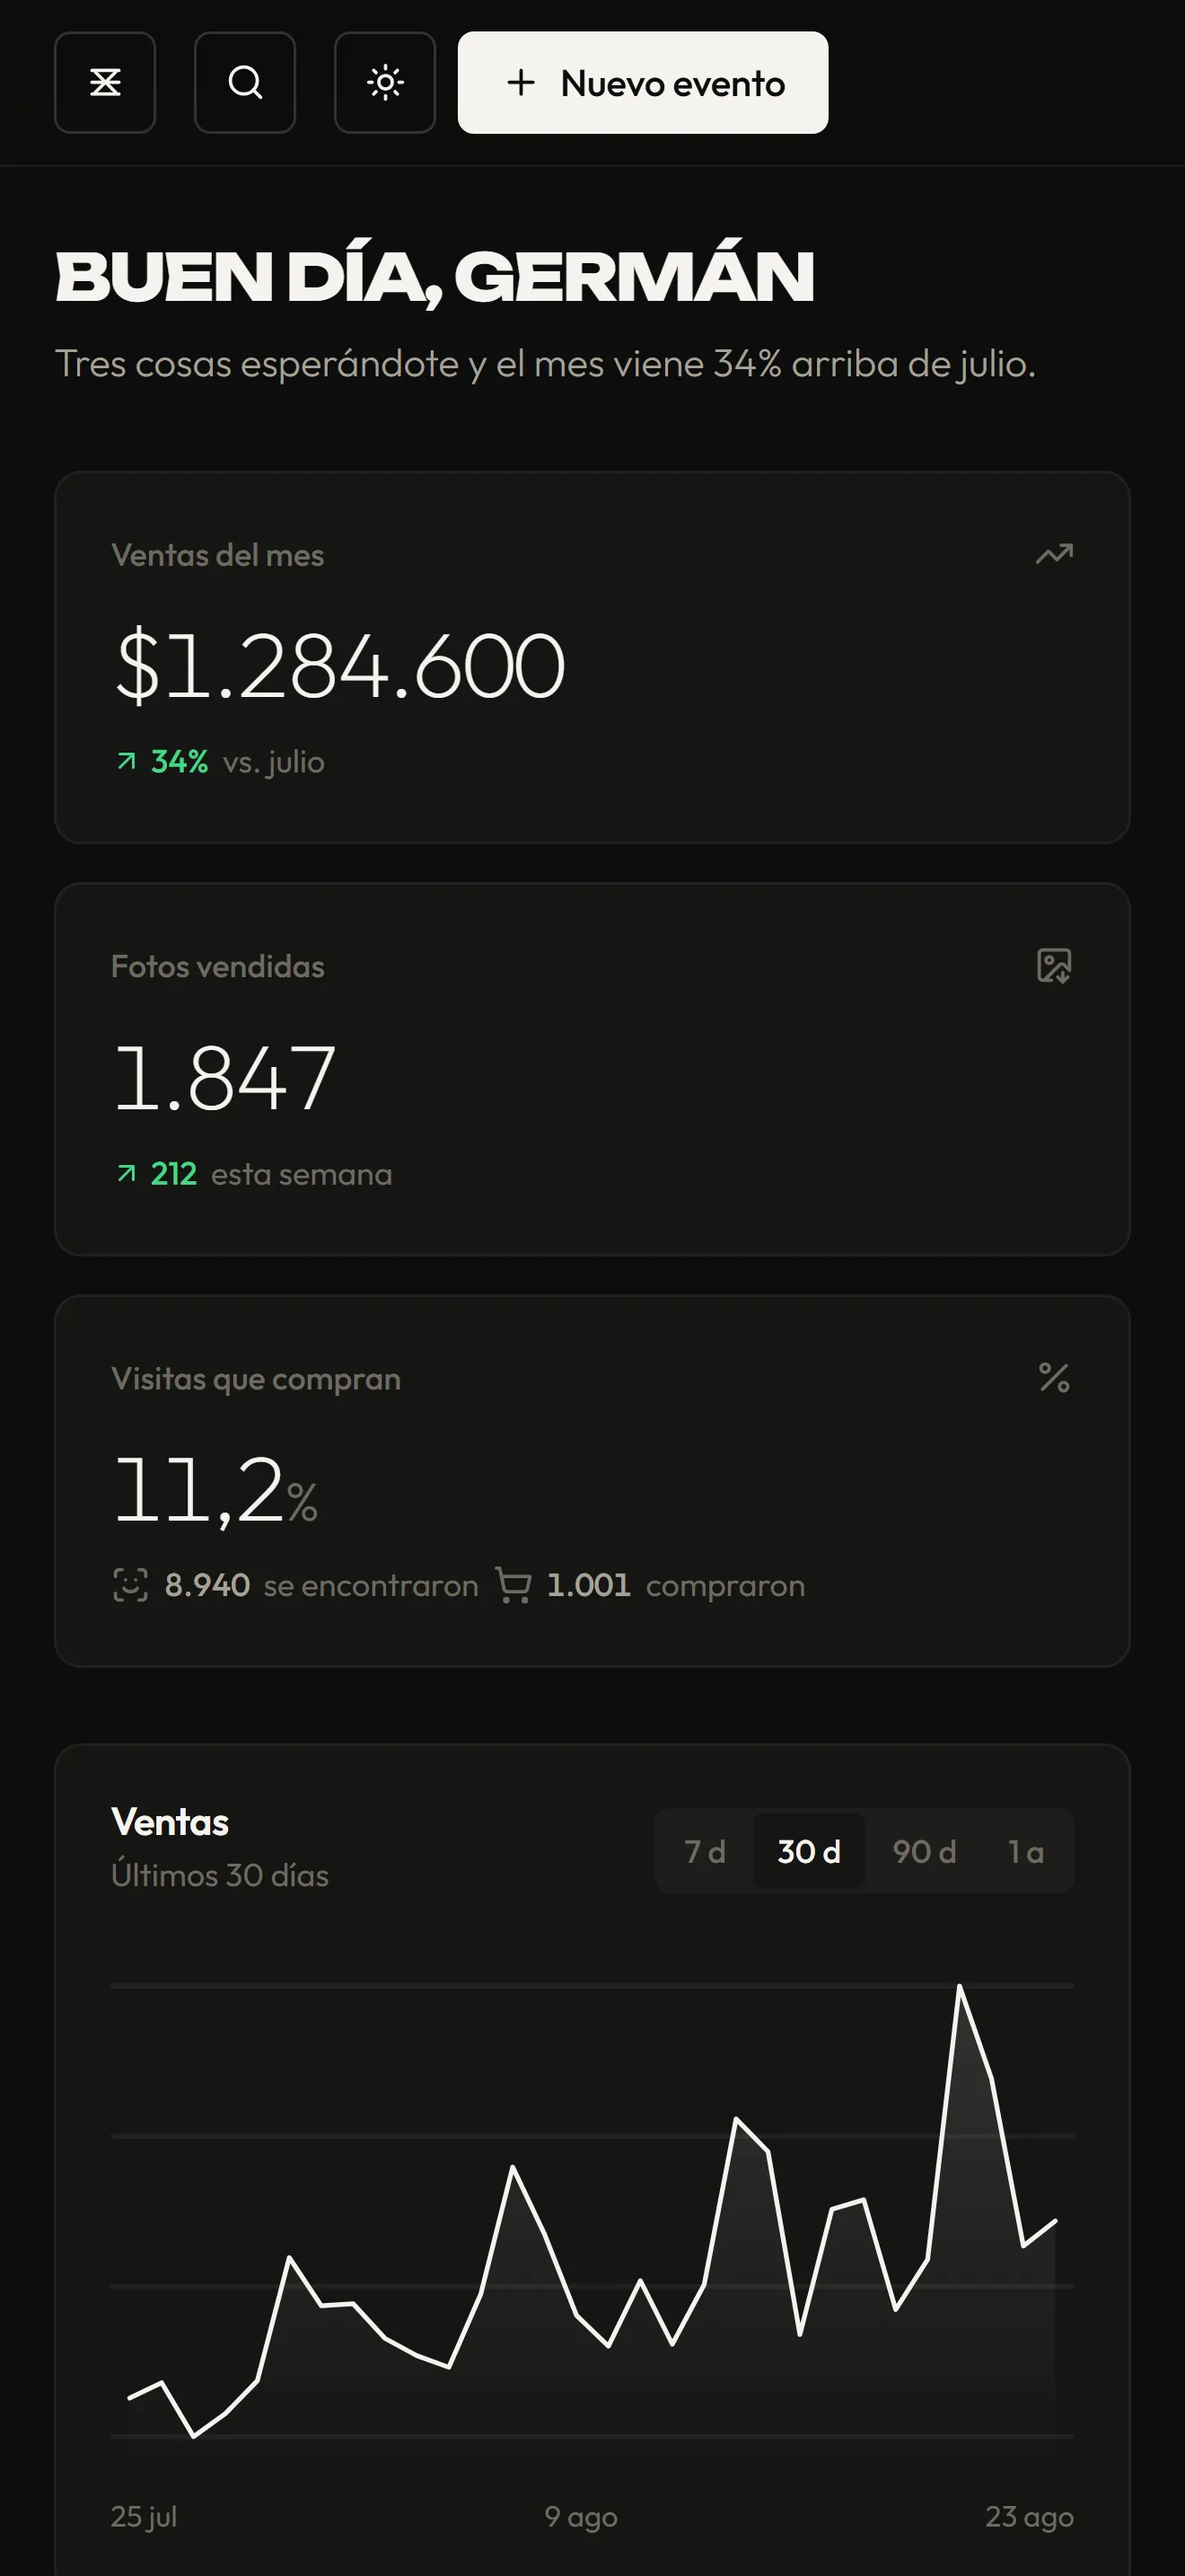
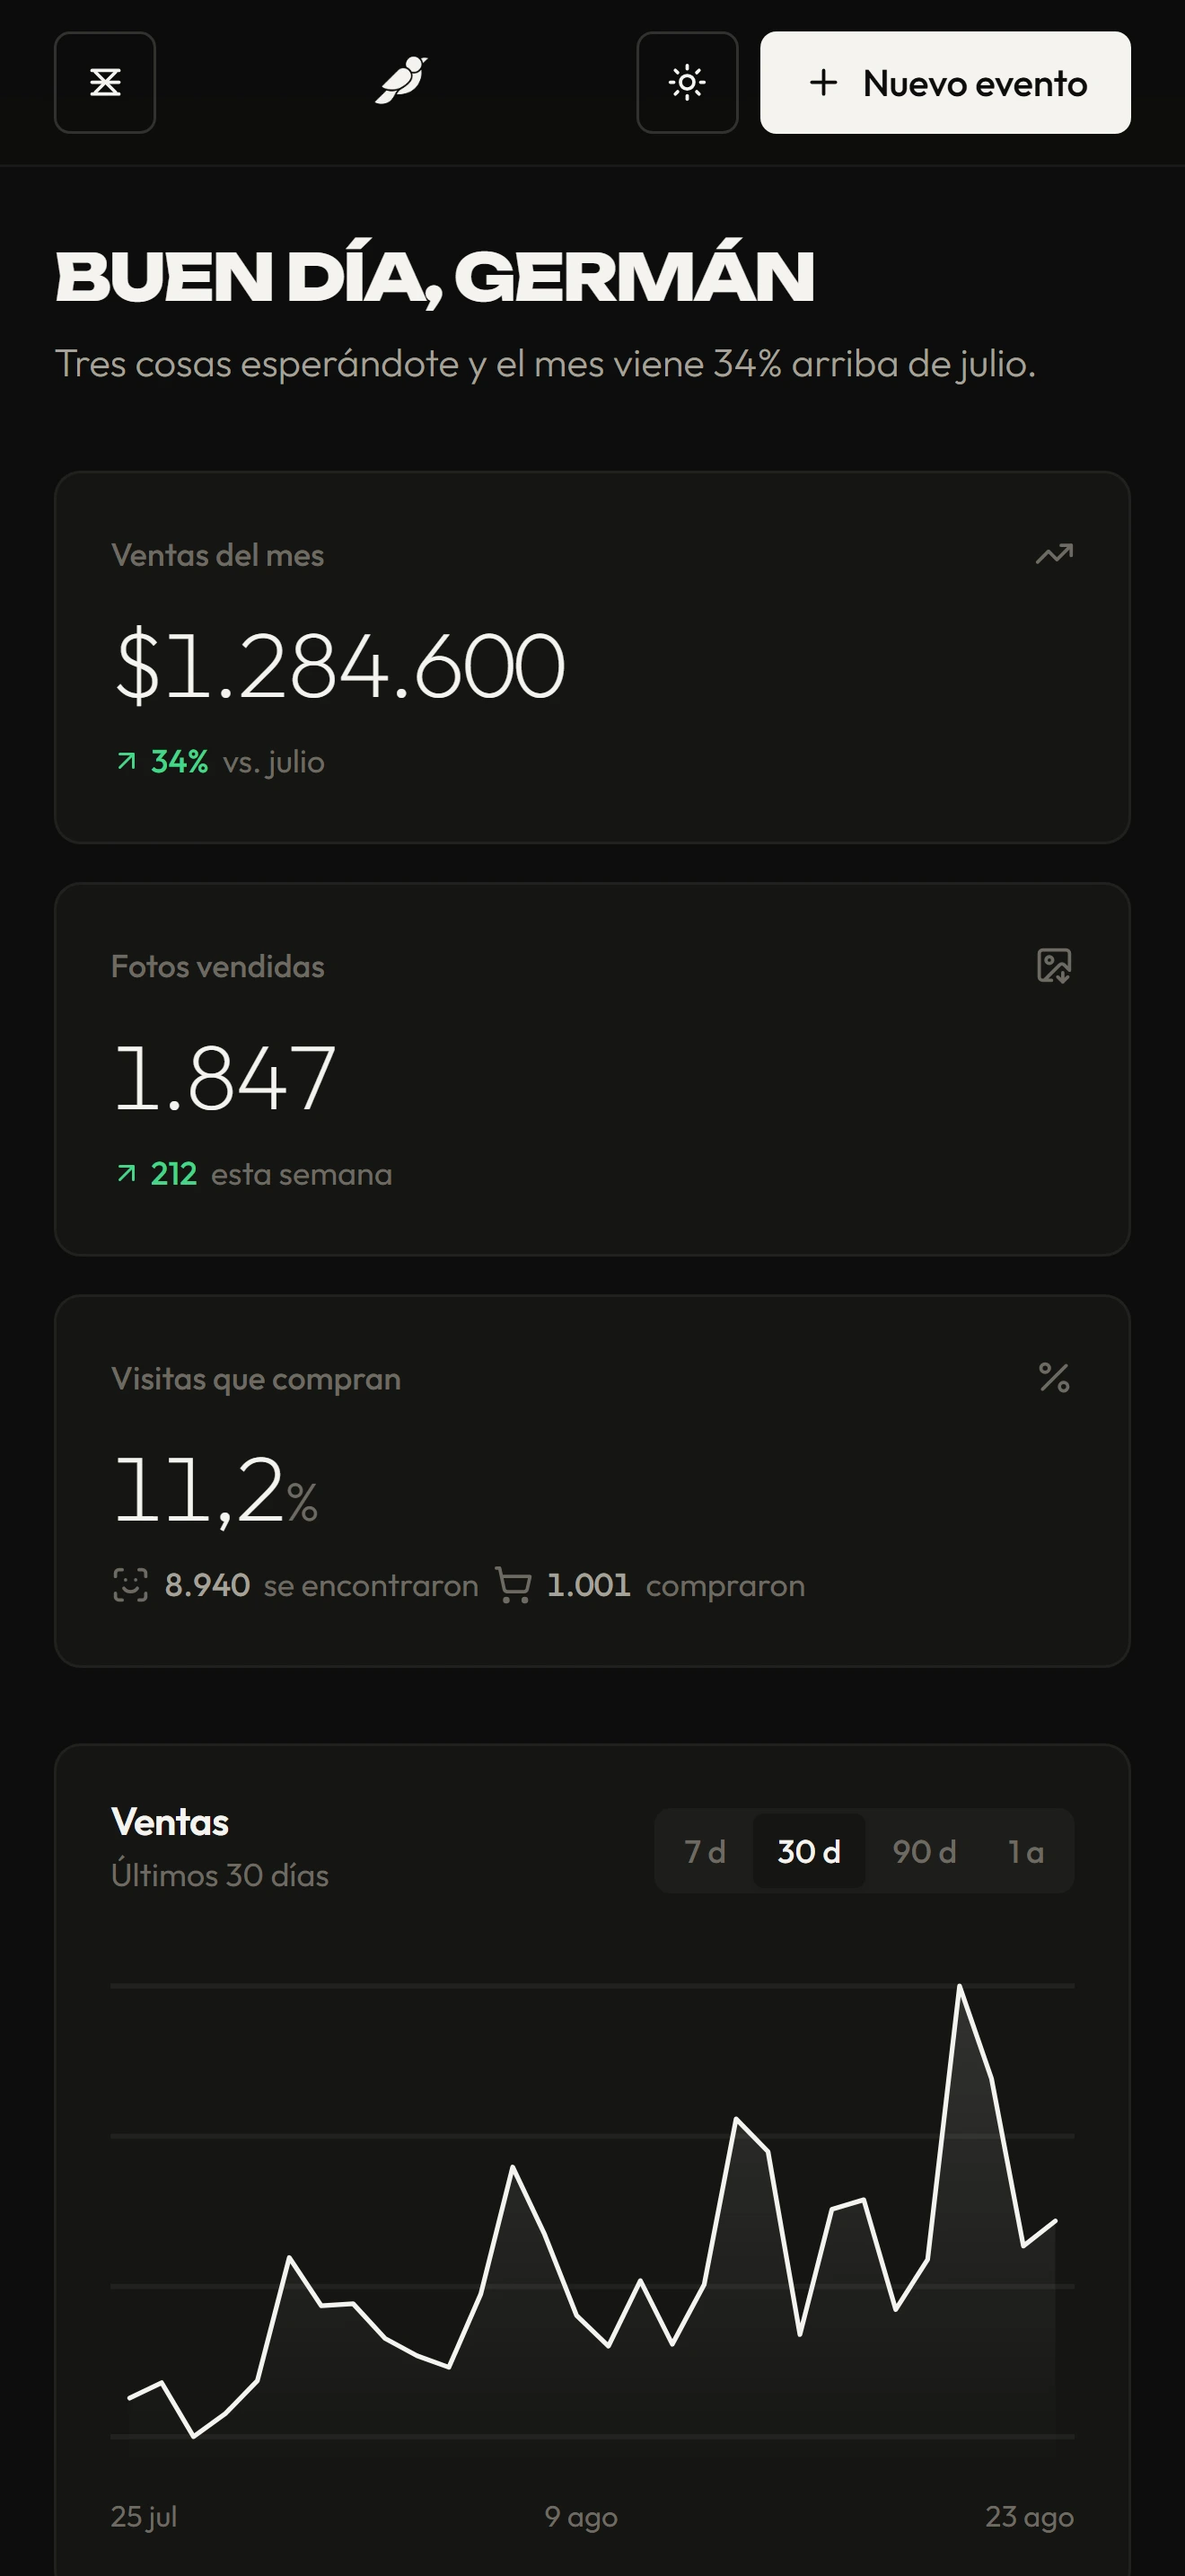
fix(landing): el header de la captura, y que se vea nítida
El header de la captura no era el del panel de verdad. El isotipo lo
había agregado al Shell de React pero NO al panel.js del laboratorio, y
la captura sale del laboratorio: quedaba una barra sin marca, con un
botón de lupa que la app nunca porteó. Ahora panel.js lo dibuja igual que
React —el laboratorio y la app dejan de estar desalineados en eso— y la
captura esconde la lupa del prototipo, porque tiene que mostrar el
producto y no el andamio.

Con eso el isotipo queda centrado entre la hamburguesa y los botones, que
es como se ve en el teléfono.

Y lo de la resolución eran dos cosas a la vez:

- La compresión. Estaba en q82; pasa a q92, de 64 a 90 KB. Sigue siendo
  un tercio del PNG.
- El tamaño. El marco medía hasta 330px de ancho y adentro tiene una
  pantalla de 440 puntos: se mostraba al 75% y por eso se leía chica.
  Ahora llega a 380.

Changed region(s): [[0.3106, 0.0, 0.6523, 0.0621], [0.6833, 0.0, 0.9629, 0.0621]]

diff --git a/cuervito/src/styles/landing-encontrate.css b/cuervito/src/styles/landing-encontrate.css
@@ -205,7 +205,10 @@ section { position: relative; }
    Más grande que los otros dos teléfonos porque es lo primero que se ve y
    comparte el aire con el titular; los de abajo acompañan a un texto.
    ------------------------------------------------------------------------- */
-.tel-hero { --p: clamp(230px, 30vw, 330px); }
+/* Más grande que los otros dos teléfonos: es lo primero que se ve, comparte el
+   aire con el titular y adentro tiene una pantalla entera de 440 puntos que a
+   330px de ancho quedaba al 75% y se leía chica. */
+.tel-hero { --p: clamp(250px, 34vw, 380px); }
 
 /* ── Las ventas entrando, sobre la pantalla ──────────────────────────────────
    De a una y no apiladas: una sola que aparece y se va se lee como "acaba de

diff --git a/lab/landing/landing.css b/lab/landing/landing.css
@@ -201,7 +201,10 @@ section { position: relative; }
    Más grande que los otros dos teléfonos porque es lo primero que se ve y
    comparte el aire con el titular; los de abajo acompañan a un texto.
    ------------------------------------------------------------------------- */
-.tel-hero { --p: clamp(230px, 30vw, 330px); }
+/* Más grande que los otros dos teléfonos: es lo primero que se ve, comparte el
+   aire con el titular y adentro tiene una pantalla entera de 440 puntos que a
+   330px de ancho quedaba al 75% y se leía chica. */
+.tel-hero { --p: clamp(250px, 34vw, 380px); }
 
 /* ── Las ventas entrando, sobre la pantalla ──────────────────────────────────
    De a una y no apiladas: una sola que aparece y se va se lee como "acaba de

diff --git a/lab/panel.js b/lab/panel.js
@@ -85,6 +85,10 @@
       '<span class="ico ico-menu"><i data-lucide="menu"></i></span>' +
       '<span class="ico ico-close"><i data-lucide="x"></i></span>' +
       "</button>" +
+      // El isotipo, sólo cuando el riel se esconde. En escritorio la marca ya
+      // está arriba del riel; en teléfono la barra quedaba sin ninguna, y es
+      // la vista que más se usa. Lo prende y lo apaga panel.css.
+      '<a href="../dashboard/" class="mark-ico" aria-label="cuervito.app"></a>' +
       '<button class="btn btn-ghost btn-icon buscar-movil" id="buscar-movil" aria-label="Buscar">' +
       '<i data-lucide="search"></i></button>' +
       '<div class="search" id="search">' +

diff --git a/lab/_captura/index.html b/lab/_captura/index.html
@@ -29,6 +29,13 @@
 
 
 <script src="../vendor/iconos.js?v=1786906781" defer></script>
+<style>
+  /* SOLO-CAPTURA: el laboratorio tiene un botón de lupa en la barra que la app
+     nunca porteó. La captura tiene que mostrar el producto, no el prototipo,
+     así que acá se esconde y el isotipo queda centrado entre la hamburguesa y
+     los botones, igual que en el panel de verdad. */
+  .buscar-movil { display: none !important; }
+</style>
 </head>
 
 <body>
